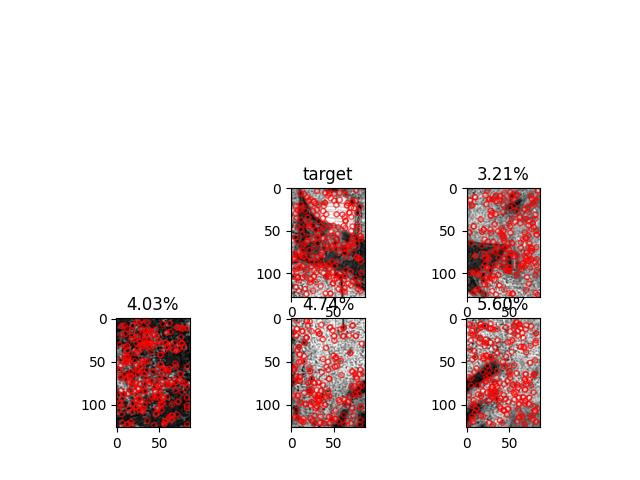
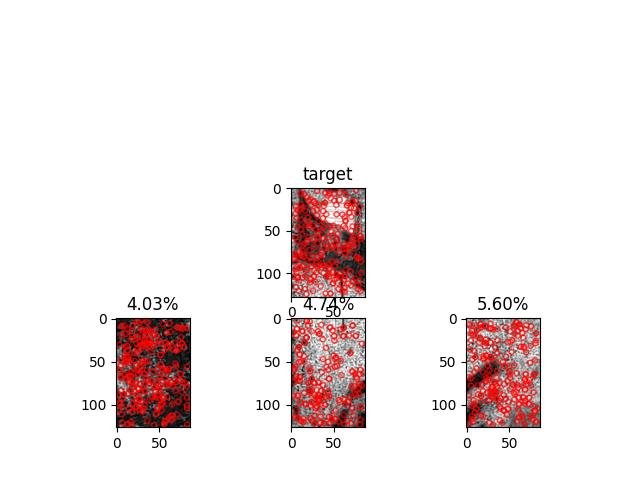
返回值格式更改

Changed region(s): [[0.6562, 0.3438, 0.8438, 0.6562]]

diff --git a/api/featureExtraction.py b/api/featureExtraction.py
@@ -82,11 +82,13 @@ class rt_main_gray_hist_differential(Resource):
             path_gray_histogram_save = os.path.join(CUTIMG_PATH, 'images_save/gray_histogram/')
             gray_histogram_differential.main_gray_hist_differential(path=path, path_bitwise=path_bitwise, path_gray_histogram_save=path_gray_histogram_save)
             pic_url = os.path.join(CUTIMG_SERVER_PATH, 'images_save/gray_histogram/1.JPG')
+            list = []
+            list.append(pic_url)
         except BaseException as e:
             current_app.logger.error(traceback.format_exc())
             return jsonify({'code': 400, 'message': '查找失败', 'data': str(e)})
         else:
-            return jsonify({'code': 201, 'message': '查找成功', 'data': pic_url})
+            return jsonify({'code': 201, 'message': '查找成功', 'data': list})
 
 @fea_ns.route('/mymain_color/<mymain_color_id>')
 @fea_ns.param('mymain_color_id', '图片id')
@@ -105,11 +107,13 @@ class rt_mymain_color(Resource):
             mymain_color_path = main_color_demon.mymain_color(real_mymain_color_path)
             # /algorithm/cutimg/static/images_GLCM_original/images_camouflage/mix/20m/2.JPG
             pic_url = os.path.join(CUTIMG_SERVER_PATH, 'images_save/main_color/main_color2.JPG')
+            list = []
+            list.append(pic_url)
         except BaseException as e:
             current_app.logger.error(traceback.format_exc())
             return jsonify({'code': 400, 'message': '查找失败', 'data': str(e)})
         else:
-            return jsonify({'code': 201, 'message': '查找成功', 'data': pic_url})
+            return jsonify({'code': 201, 'message': '查找成功', 'data': list})
 
 @fea_ns.route('/main_edge')
 class rt_main_edge(Resource):
@@ -149,11 +153,13 @@ class rt_myGLCM_demo(Resource):
             current_app.logger.info(mymain_color_path)
             # /algorithm/cutimg/static/images_GLCM_original/images_camouflage/mix/20m/2.JPG
             pic_url = os.path.join(CUTIMG_SERVER_PATH, 'images_save/GLCM_demo/GLCM_Features.png')
+            list = []
+            list.append(pic_url)
         except BaseException as e:
             current_app.logger.error(traceback.format_exc())
             return jsonify({'code': 400, 'message': '查找失败', 'data': str(e)})
         else:
-            return jsonify({'code': 201, 'message': '查找成功', 'data': pic_url})
+            return jsonify({'code': 201, 'message': '查找成功', 'data': list})
 
 
 @fea_ns.route('/myconer')
@@ -167,11 +173,13 @@ class rt_myconer(Resource):
             path_save_coner = os.path.join(CUTIMG_PATH, 'images_save/coner')
             coner_demon.myconer(path=path,  path_save_coner=path_save_coner)
             pic_url = os.path.join(CUTIMG_SERVER_PATH, 'images_save/coner/coner.JPG')
+            list = []
+            list.append(pic_url)
         except BaseException as e:
             current_app.logger.error(traceback.format_exc())
             return jsonify({'code': 400, 'message': '查找失败', 'data': str(e)})
         else:
-            return jsonify({'code': 201, 'message': '查找成功', 'data': pic_url})
+            return jsonify({'code': 201, 'message': '查找成功', 'data': list})
 
 @fea_ns.route('/myblobhist')
 class rt_myblobhist(Resource):

diff --git a/algorithm/cutimg/edge_batch.py b/algorithm/cutimg/edge_batch.py
@@ -85,7 +85,7 @@ def main_edge(path, path_edge):
 
                                     # cv2.imshow('edge' + img_name, img_edge_canny)
                                     plt.subplot(3, 3, num)
-                                    plt.imshow(img_edge_canny, cmap='gray')
+                                    # plt.imshow(img_edge_canny, cmap='gray')
                                     plt.title(str(num))
     # cv2.waitKey(0)
     plt.show()
